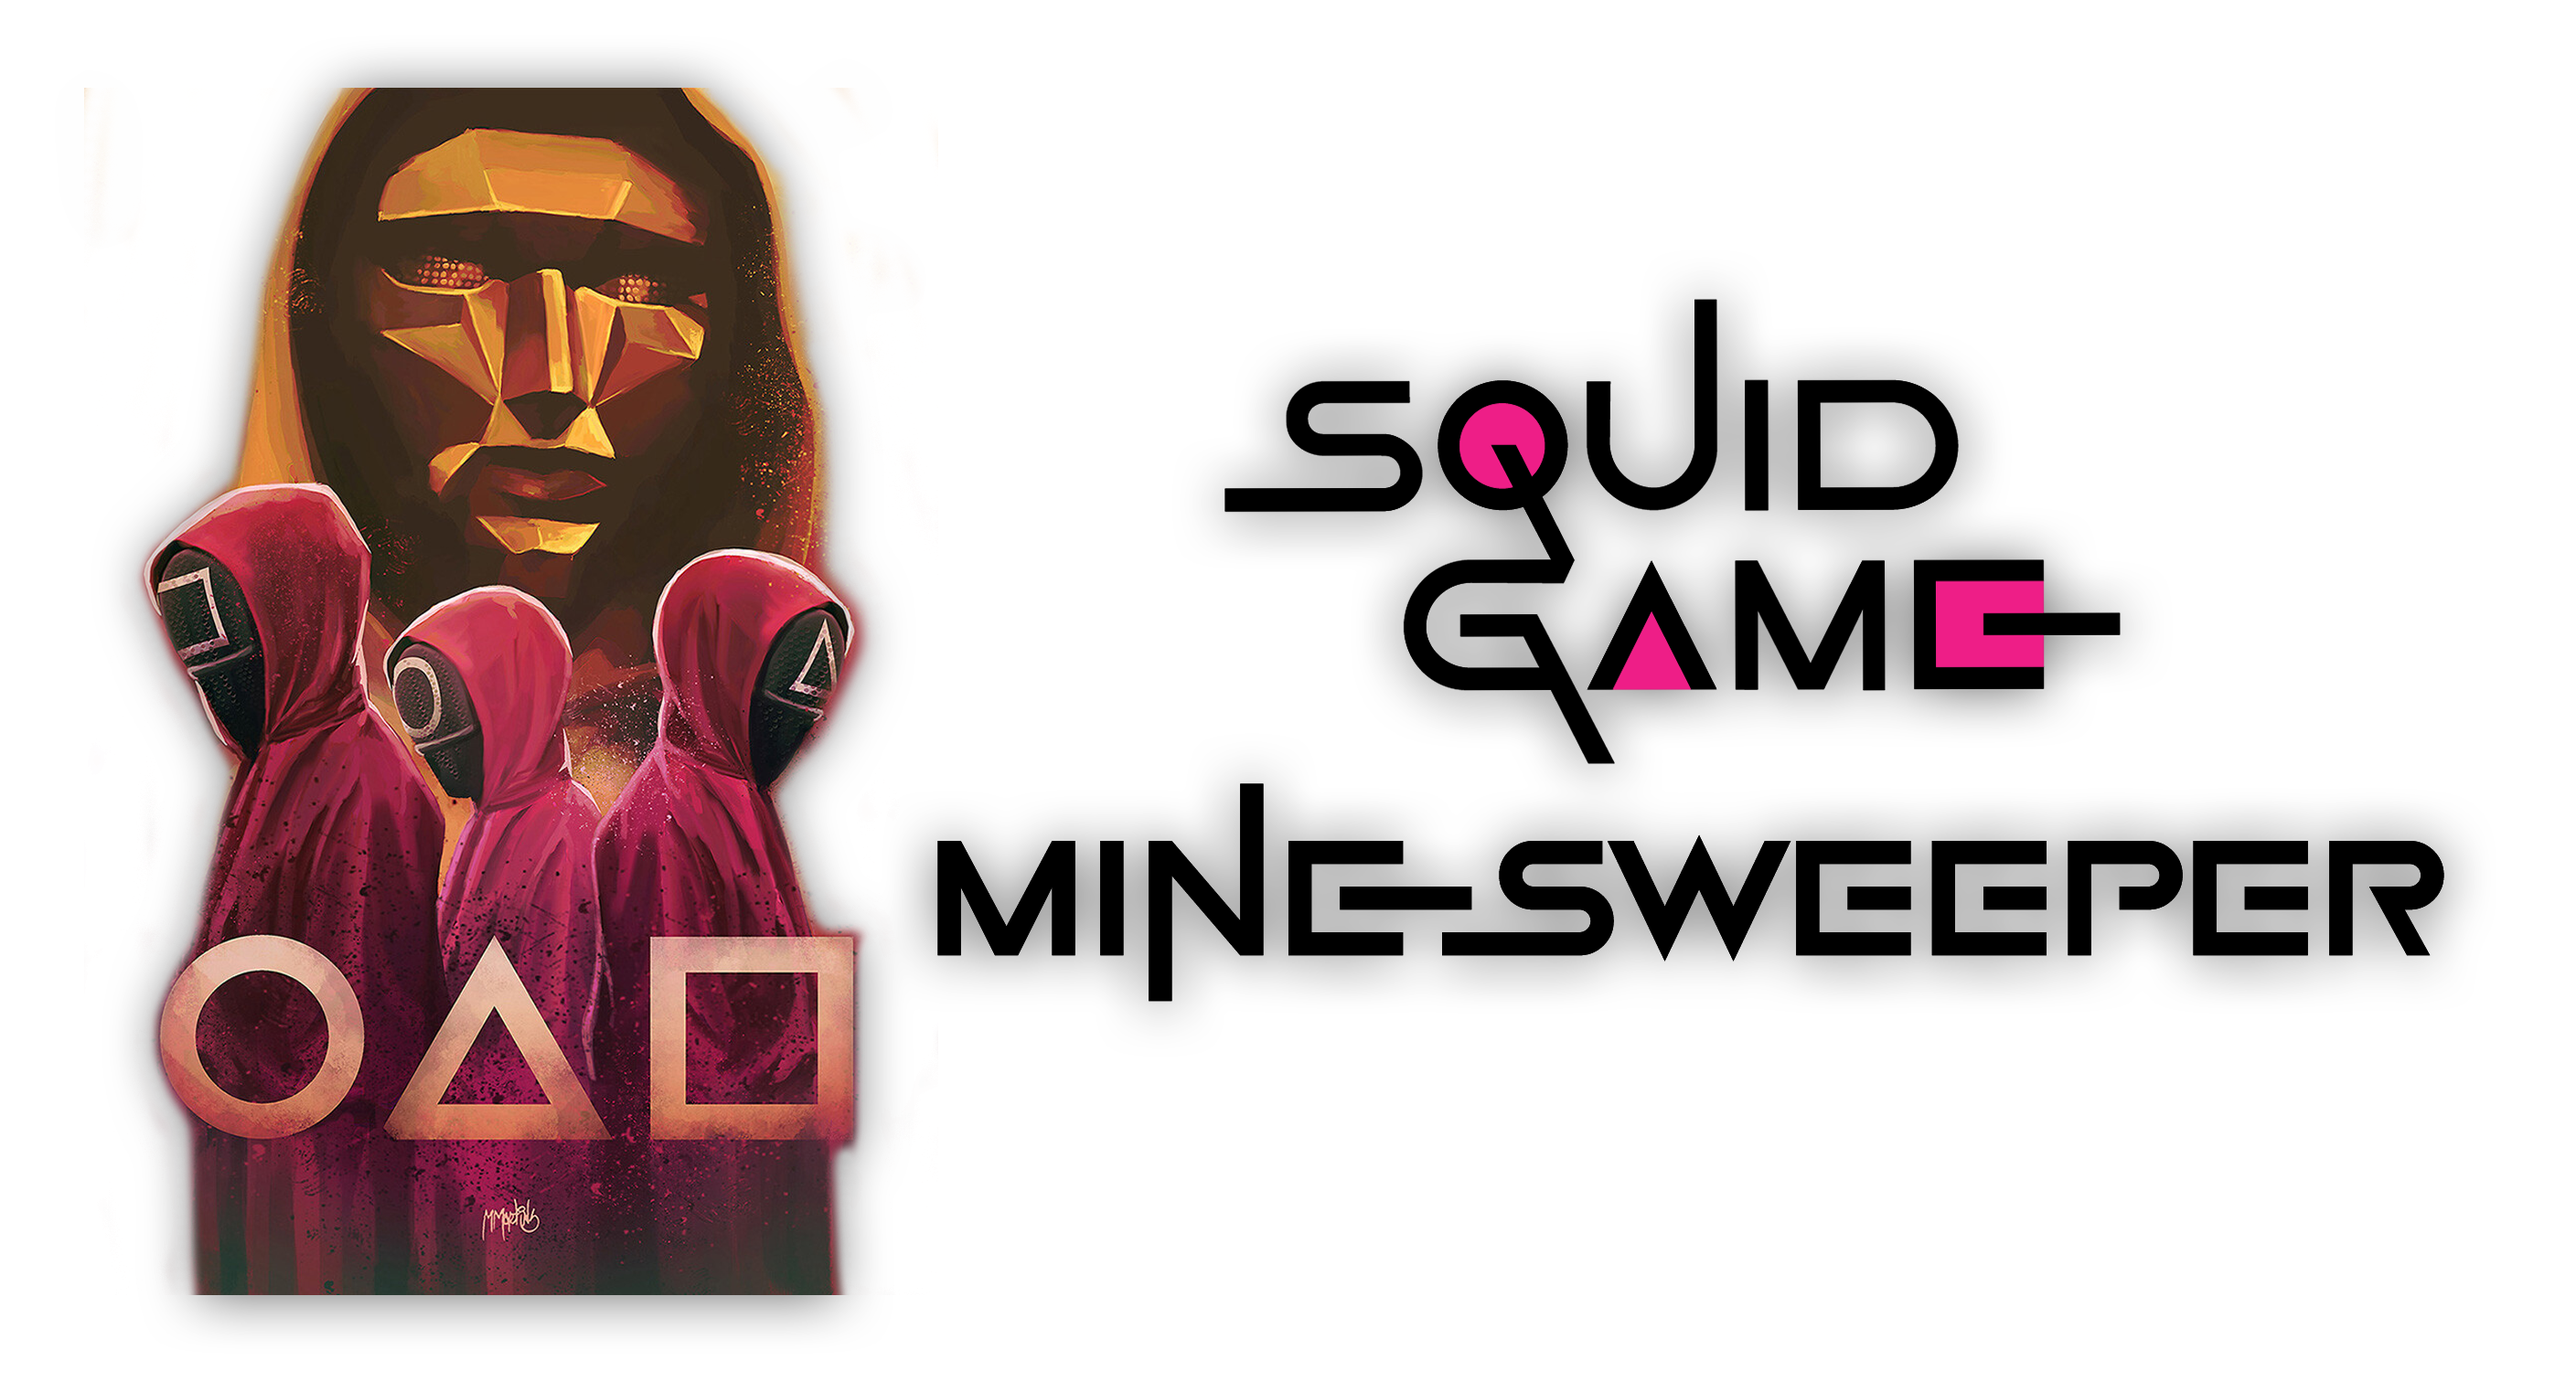
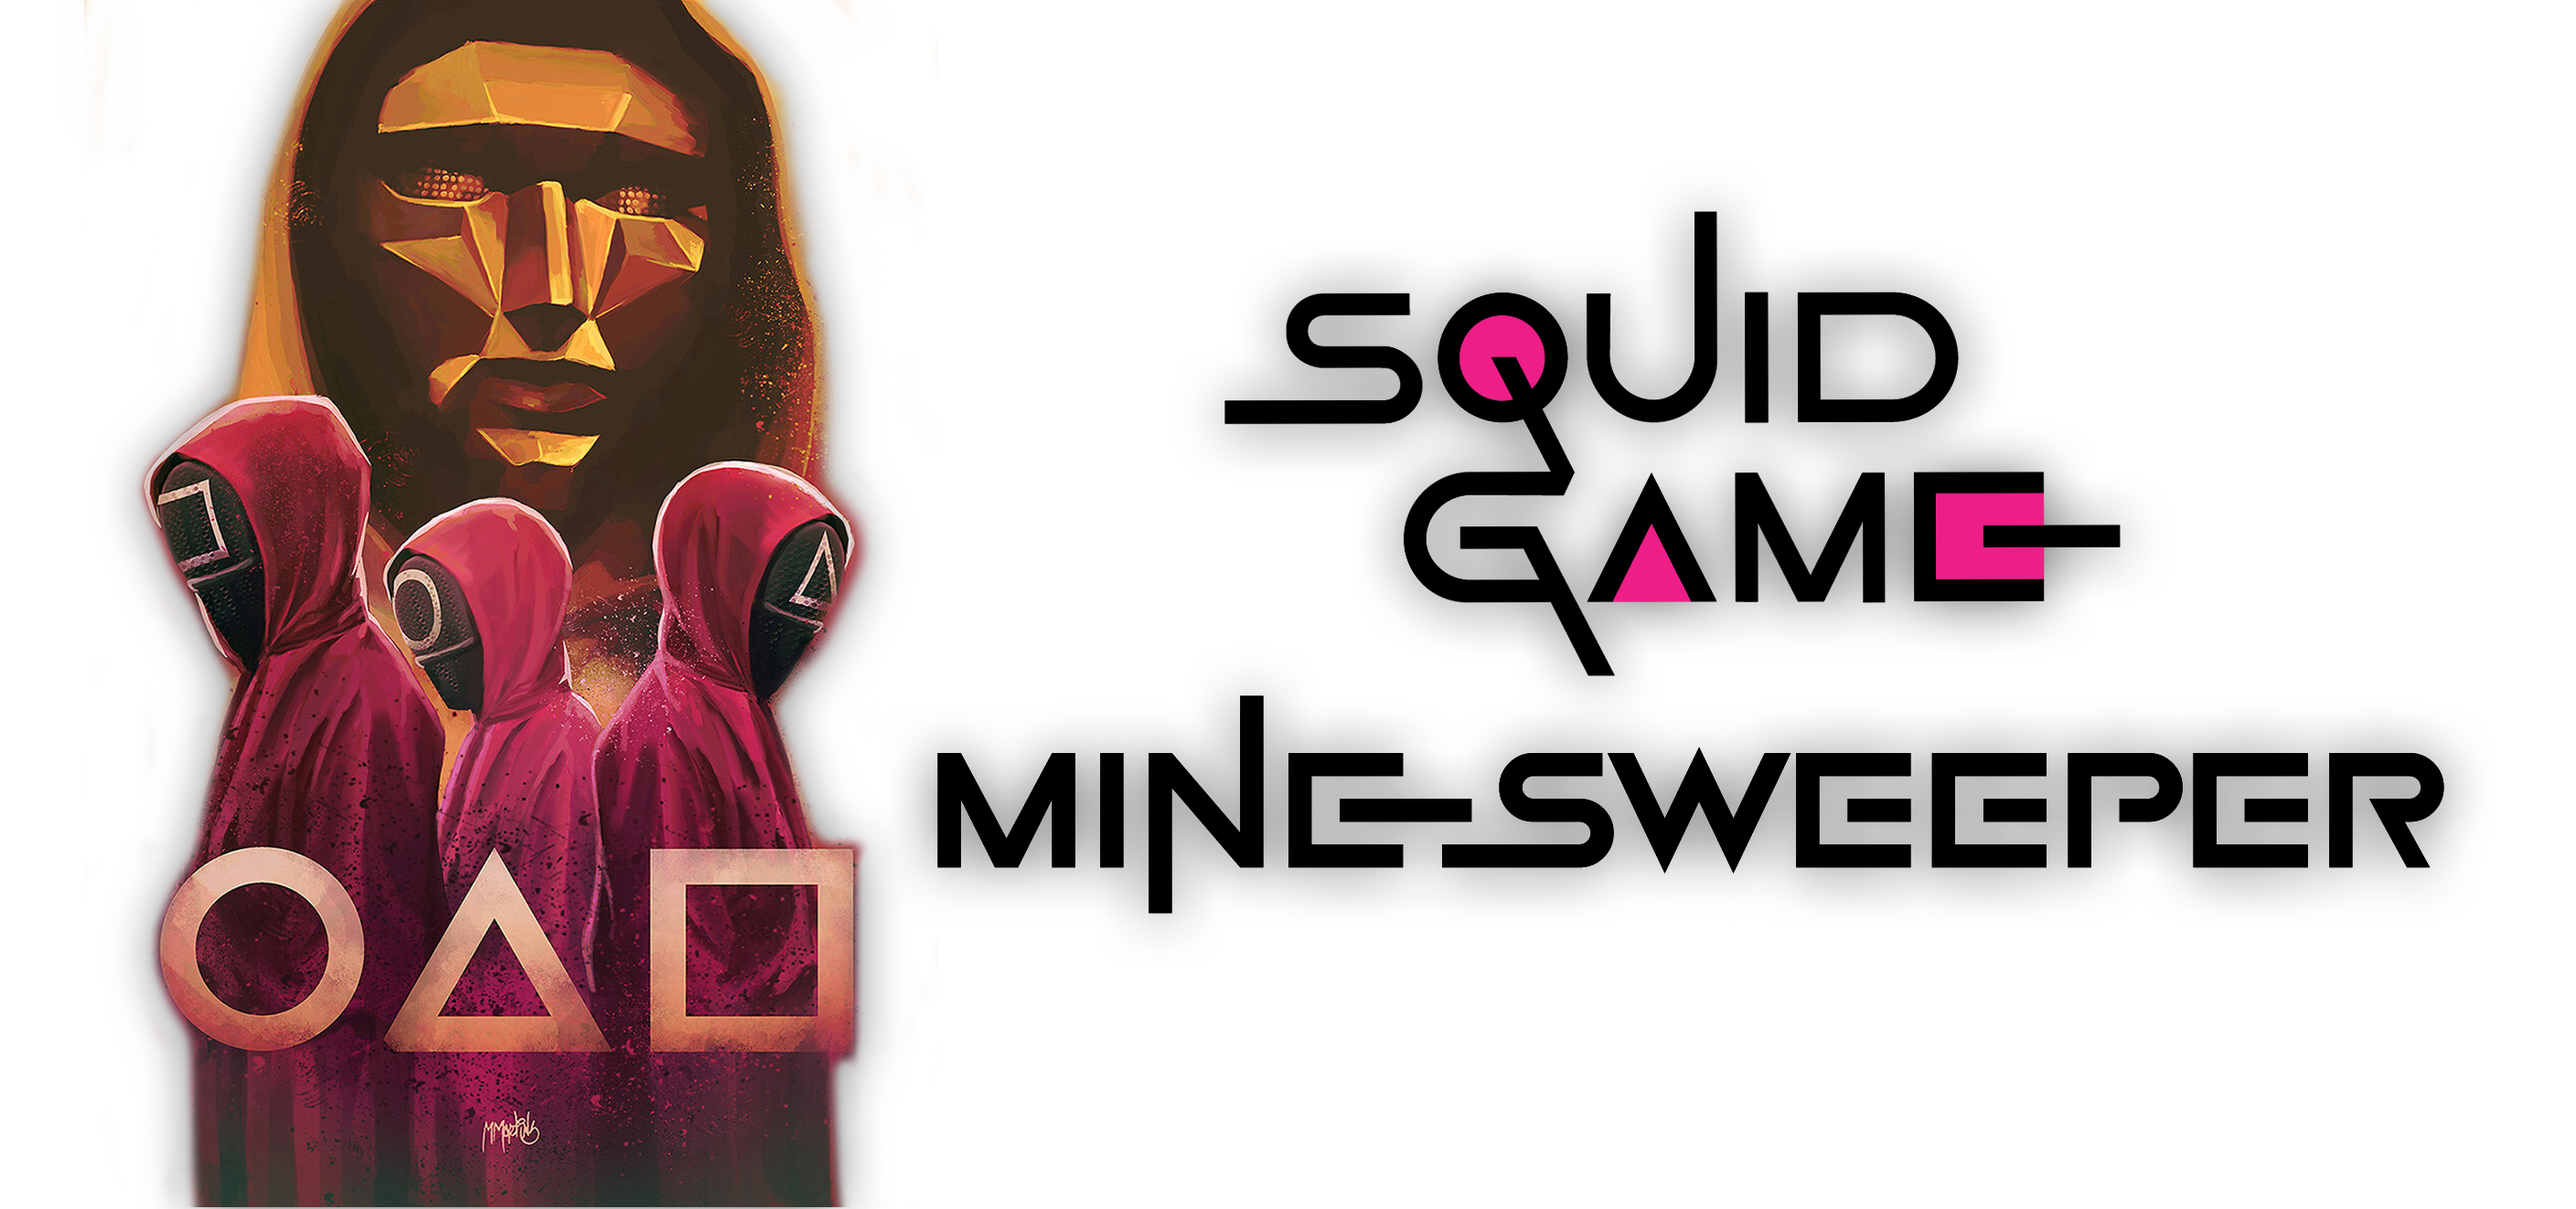
created start game button and reformatted cover page

diff --git a/styleIndex.css b/styleIndex.css
@@ -1,0 +1,90 @@
+body {
+    zoom:50%;
+    display: block;
+    margin: 0px;
+    background-image: url("images/bluetilebackground.png");
+    background-repeat: repeat;
+}
+
+.title {
+    height:50px;
+}
+
+img, button {
+    display: flex;
+    margin: 0 auto;
+}
+
+/* CSS */
+.button-85 {
+  width: 300px;
+  height:70px;
+  text-align: center;
+  padding: 0.6em 2em;
+  font-family:'Trebuchet MS', 'Lucida Sans Unicode', 'Lucida Grande', 'Lucida Sans', Arial, sans-serif;
+  padding-left:72px;
+  font-size:30px;
+  border: none;
+  outline: none;
+  color: rgb(255, 255, 255);
+  background: #111;
+  cursor: pointer;
+  position: relative;
+  z-index: 0;
+  border-radius: 10px;
+  user-select: none;
+  -webkit-user-select: none;
+  touch-action: manipulation;
+}
+
+.button-85:before {
+  content: "";
+  background: linear-gradient(
+    45deg,
+    #ff0000,
+    #ff7300,
+    #fffb00,
+    #48ff00,
+    #00ffd5,
+    #002bff,
+    #7a00ff,
+    #ff00c8,
+    #ff0000
+  );
+  position: absolute;
+  top: -2px;
+  left: -2px;
+  background-size: 400%;
+  z-index: -1;
+  filter: blur(5px);
+  -webkit-filter: blur(5px);
+  width: calc(100% + 4px);
+  height: calc(100% + 4px);
+  animation: glowing-button-85 20s linear infinite;
+  transition: opacity 0.3s ease-in-out;
+  border-radius: 10px;
+}
+
+@keyframes glowing-button-85 {
+  0% {
+    background-position: 0 0;
+  }
+  50% {
+    background-position: 400% 0;
+  }
+  100% {
+    background-position: 0 0;
+  }
+}
+
+.button-85:after {
+  z-index: -1;
+  content: "";
+  position: absolute;
+  width: 100%;
+  height: 100%;
+  background: #222;
+  left: 0;
+  top: 0;
+  border-radius: 10px;
+}

diff --git a/index.html b/index.html
@@ -5,12 +5,11 @@
   src="https://code.jquery.com/jquery-3.3.1.min.js"
   integrity="sha256-FgpCb/KJQlLNfOu91ta32o/NMZxltwRo8QtmkMRdAu8="
   crossorigin="anonymous"></script>
-    <link rel="stylesheet" href="style.css">
+    <link rel="stylesheet" href="styleIndex.css">
 </head>
 <body>
     <img src="images/squidMinesweeperGameCoverPage.png">
-    <h1>Hello World</h1>
-    <button onClick="(function(){
+    <button class="button-85" role="button" onClick="(function(){
         console.log('Hey i am calling');
         window.location.href = 'mainPage.html';
         return false;

diff --git a/mainPage.html b/mainPage.html
@@ -5,7 +5,7 @@
   src="https://code.jquery.com/jquery-3.3.1.min.js"
   integrity="sha256-FgpCb/KJQlLNfOu91ta32o/NMZxltwRo8QtmkMRdAu8="
   crossorigin="anonymous"></script>
-    <link rel="stylesheet" href="style.css">
+    <link rel="stylesheet" href="styleMainPage.css">
 </head>
 <body>
     <!--
